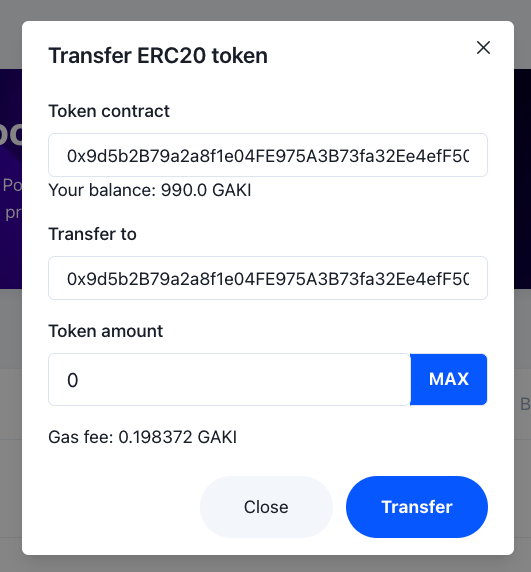
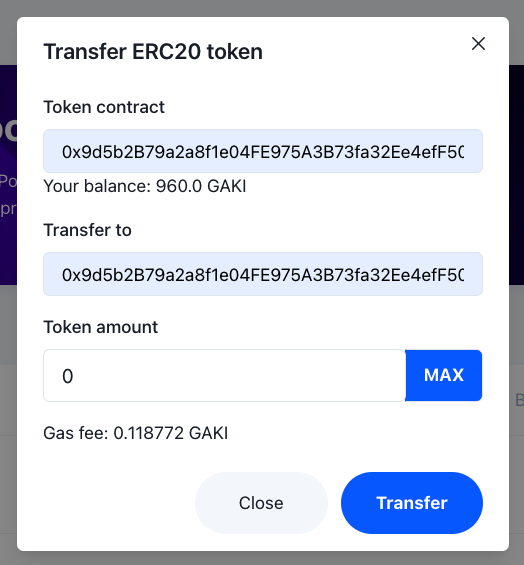
GitBook: [#117] No subject

diff --git a/build/how-to-run-gafi-node.md b/build/how-to-run-gafi-node.md
@@ -1,0 +1,68 @@
+# How to run Gafi Node?
+
+Following are the steps to help you build the Gafi node on **Linux**:
+
+1. **Setup environment**
+
+**- Install dependencies**
+
+```
+$ sudo apt update
+$ sudo apt install clang
+$ sudo apt-get install build-essential libssl-dev
+```
+
+**- Install Rust**
+
+```
+$ curl https://sh.rustup.rs -sSf | sh
+$ source ~/.cargo/env
+```
+
+**- Rust toolchain**
+
+```
+$ rustup default stable
+$ rustup update
+```
+
+**- Rust nightly**
+
+```
+$ rustup update nightly
+$ rustup target add wasm32-unknown-unknown --toolchain nightly
+```
+
+**- Verify**
+
+```
+$ rustc --version
+$ rustup show
+```
+
+_**- CMake:**_
+
+```
+$ wget https://github.com/Kitware/CMake/releases/download/v3.20.0/cmake-3.20.0.tar.gz
+$ tar -zxvf cmake-3.20.0.tar.gz
+$ cd cmake-3.20.0
+$ ./bootstrap
+$ make
+$ sudo make install
+$ cmake --version
+```
+
+1.  **Build Gafi Node**
+
+    ```
+    $ git clone https://github.com/grindytech/gafi.git
+    $ cd gafi/
+    $ make build-dev
+    ```
+2.  **Run Gafi**
+
+    ```
+    $ make run-dev
+    ```
+
+__

diff --git a/how-to-guides/how-to-map-evm-account-with-substrate-account.md b/how-to-guides/how-to-map-evm-account-with-substrate-account.md
@@ -16,11 +16,13 @@ After you have your own Substrate account let go to [Gafi App](https://apps.gafi
 **3. Setup Metamask**\
 First, you need to create the [Metamask](https://metamask.io/) account if you don't have one yet. Then set up the GAKI network
 
-![GAKI Network](<../.gitbook/assets/GAKI network.png>)
+<figure><img src="../.gitbook/assets/gafi-testnet-metamask.png" alt=""><figcaption><p>Gafi Testnet Metamask Configuration</p></figcaption></figure>
 
-**RPC**: http://rpc.gafi.network\
+**RPC**: https://rpc-testnet.gafi.network\
+**RPC2**: http://rpc-testnet-sig.gafi.network\
+\
 **Chain ID**: 1337\
-**Symbol**: GAKI
+**Symbol**: GAFI
 
 **4. Connect the Metamask account**\
 ****Now, navigate to the [Mapping Account](https://apps.gafi.network/admin/mapping-account) section. Click on Connect Metamask -> Click on Mapping

diff --git a/how-to-guides/how-to-claim-developer-onchain-reward.md b/how-to-guides/how-to-claim-developer-onchain-reward.md
@@ -1,0 +1,14 @@
+# How to claim developer-onchain-reward
+
+In Gafi, 30 percent of transaction fees will reward to developers(smart-contract owner), in order to claim your reward, you must first claim the ownership of your smart-contract.
+
+<figure><img src="../.gitbook/assets/claim-game-creator.png" alt=""><figcaption><p>Claim Contract</p></figcaption></figure>
+
+Following the steps to claim ownership of your smart-contract:
+
+```
+1. Navigate to Game Creator Section
+2. Claim Contract
+```
+
+After claiming your ownership, you can change the owner of the contract by simply clicking on "Change owner". _<mark style="color:yellow;">**Warning: once you changed the owner, you are no longer the owner of contract, and "developer-onchain-reward" does not reward you but rewards the new owner**</mark>_.

diff --git a/SUMMARY.md b/SUMMARY.md
@@ -13,9 +13,10 @@
   * [Gafi TX](learn/gafi-tx.md)
   * [Game Creator](learn/game-creator.md)
 * [Build](build/README.md)
-  * [How to run Gafi Node?](build/how-to-guides/how-to-run-gafi-node.md)
+  * [How to run Gafi Node?](build/how-to-run-gafi-node.md)
 * [How-to Guides](how-to-guides/README.md)
   * [How to Map EVM account with Substrate account](how-to-guides/how-to-map-evm-account-with-substrate-account.md)
   * [How to use Upfront Pool](how-to-guides/how-to-use-upfront-pool.md)
   * [How to use Staking Pool](how-to-guides/how-to-use-staking-pool.md)
   * [How to use Sponsored Pool](how-to-guides/how-to-use-sponsored-pool.md)
+  * [How to claim developer-onchain-reward](how-to-guides/how-to-claim-developer-onchain-reward.md)

diff --git a/how-to-guides/how-to-use-sponsored-pool.md b/how-to-guides/how-to-use-sponsored-pool.md
@@ -46,7 +46,7 @@ Now let's join the pool you created and transfer some erc20 tokens again
 
 **5. Transfer the erc20 token after joining the pool**
 
-![Transfer token after joining the pool](../.gitbook/assets/transfer-erc20-joined.png)
+![Transfer token after joining the pool](<../.gitbook/assets/transfer-erc20-joined (1).png>)
 
 Now as you can see the transaction fee is cutting half from the first time not joining the pool.
 
